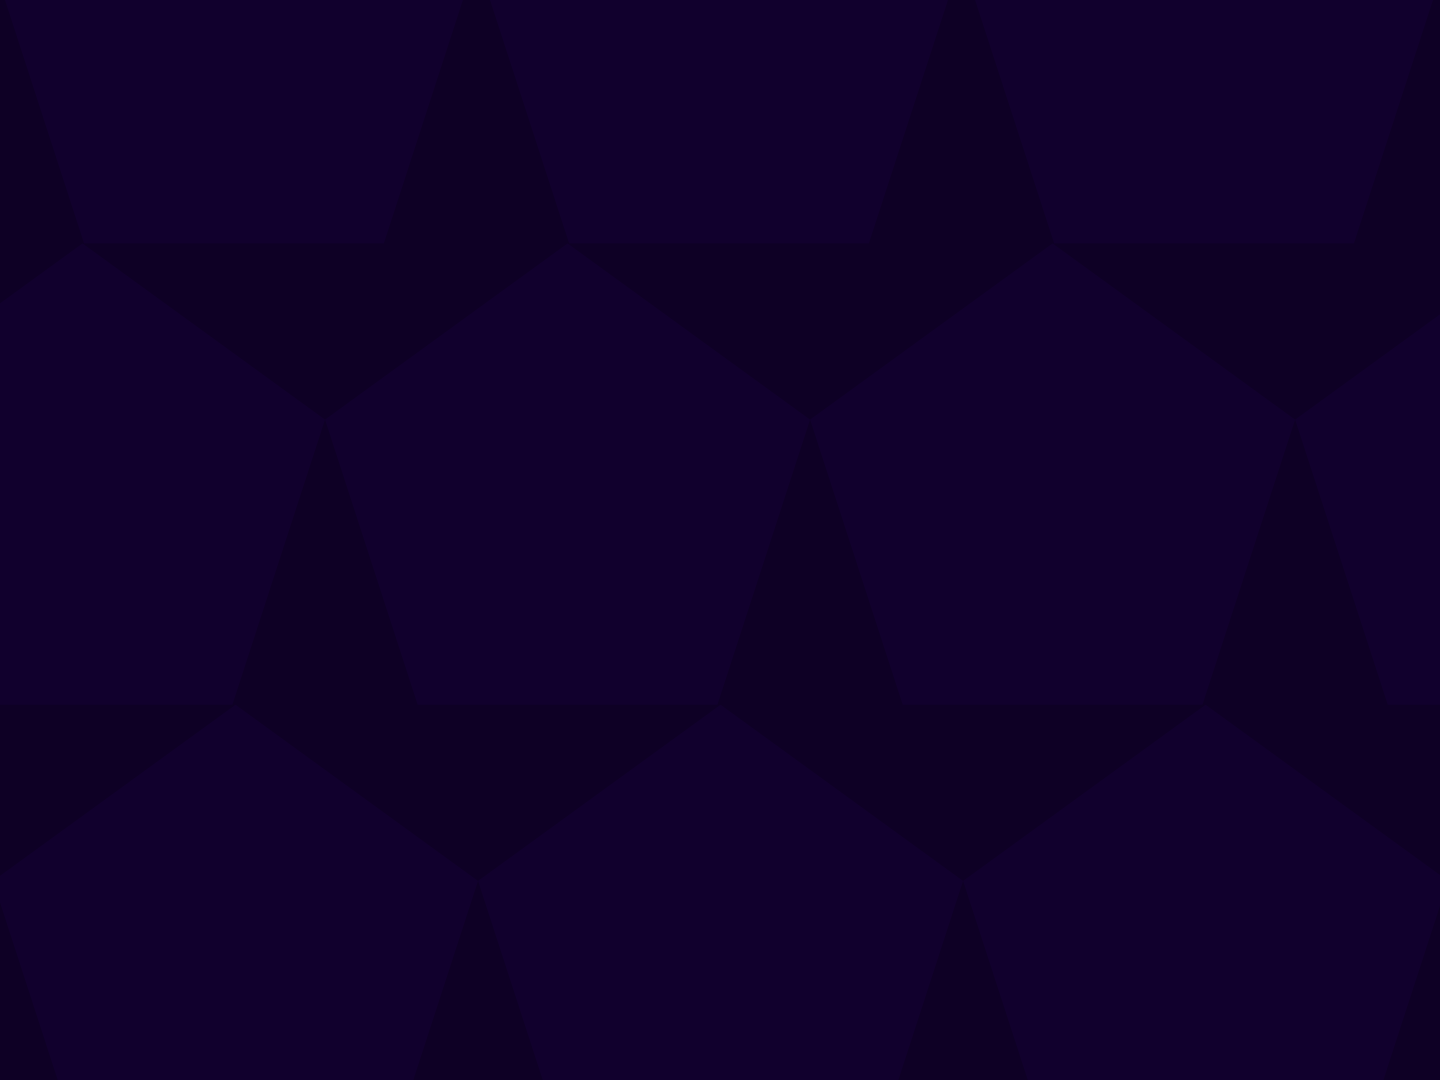
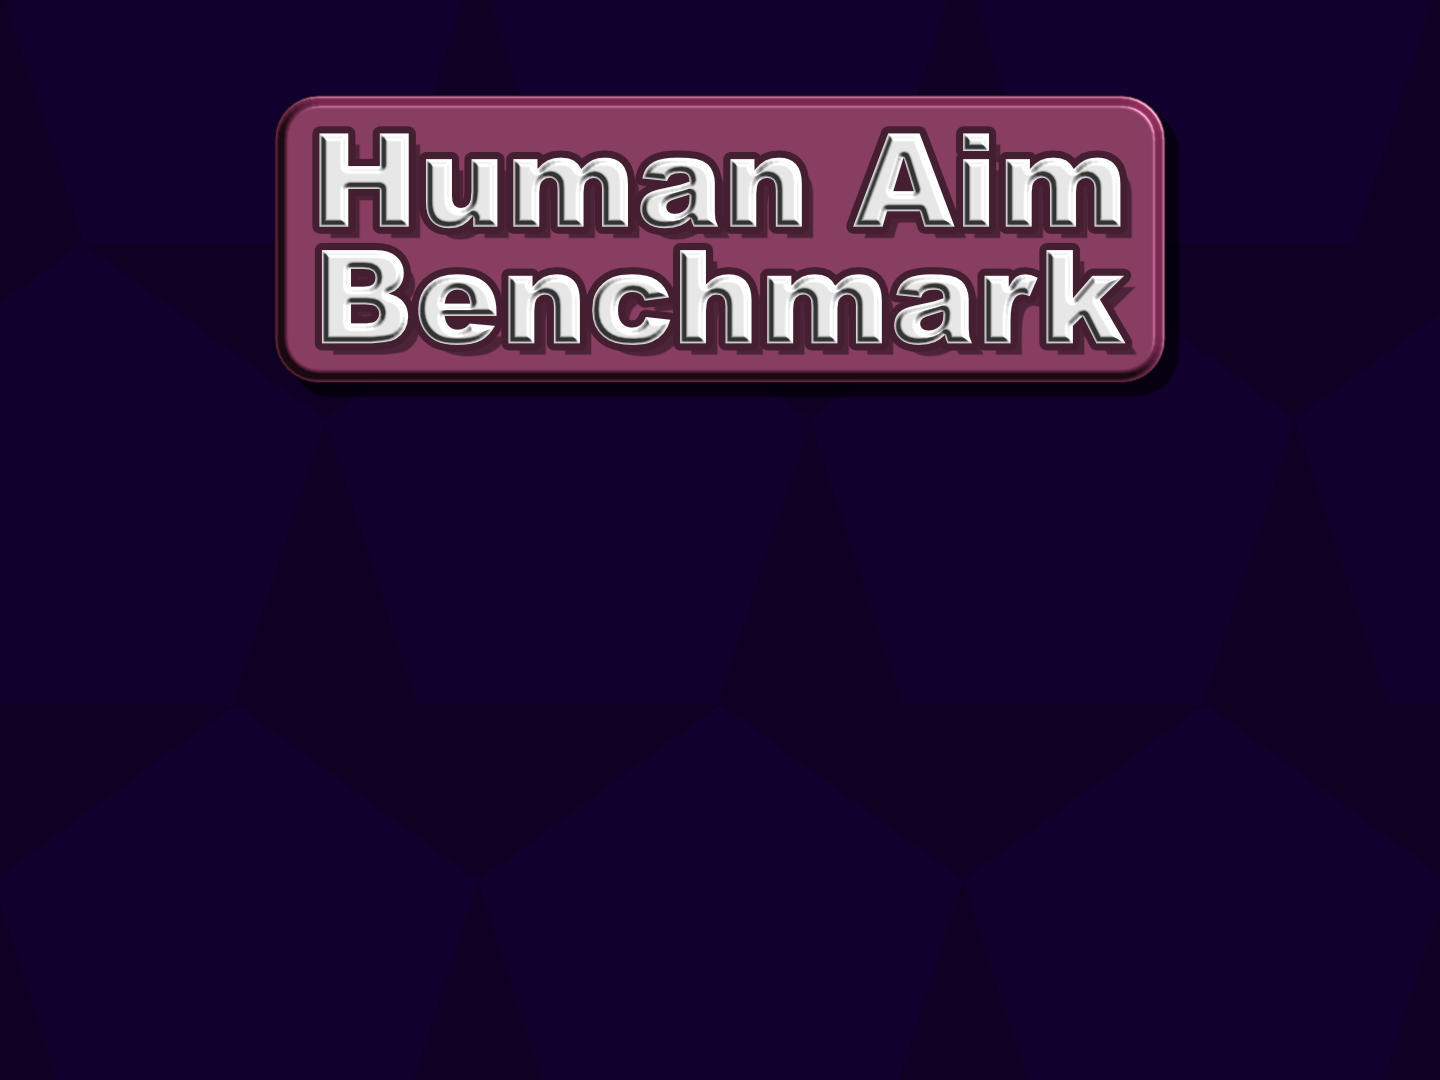
Updated design and added an options menu where the resolution can be changed

Changed region(s): [[0.1875, 0.0611, 0.8438, 0.3667]]

diff --git a/global_variables.py b/global_variables.py
@@ -15,48 +15,63 @@ def load_assets():
         return
     
     original_images = {
-        # ------------------------ MENU ASSETS ------------------------
-        "main_menu_bg": pygame.image.load("/Users/evaldsberzins/pygame/human_benchmark/graphics/main_bg.png"),
-        "level_select_background": pygame.image.load("/Users/evaldsberzins/pygame/human_benchmark/graphics/level_select_background.png"),
-        "circle_numbers_timed_bg": pygame.image.load("/Users/evaldsberzins/pygame/human_benchmark/graphics/circle_numbers_timed_bg.png"),
-        "circles_in_time_bg": pygame.image.load("/Users/evaldsberzins/pygame/human_benchmark/graphics/circles_int_time_bg.png"),
-        "background_dimmer": pygame.image.load("/Users/evaldsberzins/pygame/human_benchmark/graphics/background_dimmer.png"),
-        "playing_area": pygame.image.load("/Users/evaldsberzins/pygame/human_benchmark/graphics/playing_area.png"),
-        "n_circles_timed": pygame.image.load("/Users/evaldsberzins/pygame/human_benchmark/graphics/n_circles_timed.png"),
-        "circles_in_time_desc": pygame.image.load("/Users/evaldsberzins/pygame/human_benchmark/graphics/circles_in_time_desc.png"),
-        "start_button": pygame.image.load("/Users/evaldsberzins/pygame/human_benchmark/graphics/start_level_button.png"),
-        "arrow_right": pygame.image.load("/Users/evaldsberzins/pygame/human_benchmark/graphics/arrow_right.png"),
-        "arrow_left": pygame.image.load("/Users/evaldsberzins/pygame/human_benchmark/graphics/arrow_left.png"),
+        # ------------------------ HOME SCREEN ASSETS ------------------------
+        "main_menu_bg": pygame.image.load("../human_benchmark/graphics/main_bg.png"),
+        "play_button": pygame.image.load("../human_benchmark/graphics/play_button.png"),
+        "options_button": pygame.image.load("../human_benchmark/graphics/options_button.png"),
+        "exit_button_mm": pygame.image.load("../human_benchmark/graphics/exit_button.png"),
+
+        # ------------------------ MENU SCREEN ASSETS ------------------------
+        "level_select_background": pygame.image.load("../human_benchmark/graphics/level_select_background.png"),
+        "circle_numbers_timed_bg": pygame.image.load("../human_benchmark/graphics/circle_numbers_timed_bg.png"),
+        "circles_in_time_bg": pygame.image.load("../human_benchmark/graphics/circles_int_time_bg.png"),
+        "background_dimmer": pygame.image.load("../human_benchmark/graphics/background_dimmer.png"),
+        "playing_area": pygame.image.load("../human_benchmark/graphics/playing_area.png"),
+        "n_circles_timed": pygame.image.load("../human_benchmark/graphics/n_circles_timed.png"),
+        "circles_in_time_desc": pygame.image.load("../human_benchmark/graphics/circles_in_time_desc.png"),
+        "start_button": pygame.image.load("../human_benchmark/graphics/start_level_button.png"),
+        "arrow_right": pygame.image.load("../human_benchmark/graphics/arrow_right.png"),
+        "arrow_left": pygame.image.load("../human_benchmark/graphics/arrow_left.png"),
+
+        # ------------------------ OPTIONS SCREEN ASSETS ------------------------
+        "options_menu_screen": pygame.image.load("../human_benchmark/graphics/options_menu_screen.png"),
+        "back_button": pygame.image.load("../human_benchmark/graphics/back_button.png"),
+        "1440res":pygame.image.load("../human_benchmark/graphics/1440res.png"),
+        "1224res":pygame.image.load("../human_benchmark/graphics/1224res.png"),
+        "1024res":pygame.image.load("../human_benchmark/graphics/1024res.png"),
+        "1440res_selected": pygame.image.load("../human_benchmark/graphics/1440res_selected.png"),
+        "1224res_selected": pygame.image.load("../human_benchmark/graphics/1224res_selected.png"),
+        "1024res_selected": pygame.image.load("../human_benchmark/graphics/1024res_selected.png"),
         
          # ------------------------ CIRCLE OPTION ASSETS ------------------------      
-        "5_circles_unselected": pygame.image.load("/Users/evaldsberzins/pygame/human_benchmark/graphics/5_circles_unselected.png"),
-        "10_circles_unselected": pygame.image.load("/Users/evaldsberzins/pygame/human_benchmark/graphics/10_circles_unselected.png"),
-        "20_circles_unselected": pygame.image.load("/Users/evaldsberzins/pygame/human_benchmark/graphics/20_circles_unselected.png"),
-        "1x_size_unselected": pygame.image.load("/Users/evaldsberzins/pygame/human_benchmark/graphics/1x_size_unselected.png"),
-        "2x_size_unselected": pygame.image.load("/Users/evaldsberzins/pygame/human_benchmark/graphics/2x_size_unselected.png"),
-        "3x_size_unselected": pygame.image.load("/Users/evaldsberzins/pygame/human_benchmark/graphics/3x_size_unselected.png"),
-        "5_circles_selected": pygame.image.load("/Users/evaldsberzins/pygame/human_benchmark/graphics/5_circles_selected.png"),
-        "10_circles_selected": pygame.image.load("/Users/evaldsberzins/pygame/human_benchmark/graphics/10_circles_selected.png"),
-        "20_circles_selected": pygame.image.load("/Users/evaldsberzins/pygame/human_benchmark/graphics/20_circles_selected.png"),
-        "1x_size_selected": pygame.image.load("/Users/evaldsberzins/pygame/human_benchmark/graphics/1x_size_selected.png"),
-        "2x_size_selected": pygame.image.load("/Users/evaldsberzins/pygame/human_benchmark/graphics/2x_size_selected.png"),
-        "3x_size_selected": pygame.image.load("/Users/evaldsberzins/pygame/human_benchmark/graphics/3x_size_selected.png"),
-        "5s_limit_unselected": pygame.image.load("/Users/evaldsberzins/pygame/human_benchmark/graphics/5s_limit_unselected.png"),   
-        "10s_limit_unselected": pygame.image.load("/Users/evaldsberzins/pygame/human_benchmark/graphics/10s_limit_unselected.png"),
-        "20s_limit_unselected": pygame.image.load("/Users/evaldsberzins/pygame/human_benchmark/graphics/20s_limit_unselected.png"),
-        "5s_limit_selected": pygame.image.load("/Users/evaldsberzins/pygame/human_benchmark/graphics/5s_limit_selected.png"),
-        "10s_limit_selected": pygame.image.load("/Users/evaldsberzins/pygame/human_benchmark/graphics/10s_limit_selected.png"),
-        "20s_limit_selected": pygame.image.load("/Users/evaldsberzins/pygame/human_benchmark/graphics/20s_limit_selected.png"),
+        "5_circles_unselected": pygame.image.load("../human_benchmark/graphics/5_circles_unselected.png"),
+        "10_circles_unselected": pygame.image.load("../human_benchmark/graphics/10_circles_unselected.png"),
+        "20_circles_unselected": pygame.image.load("../human_benchmark/graphics/20_circles_unselected.png"),
+        "1x_size_unselected": pygame.image.load("../human_benchmark/graphics/1x_size_unselected.png"),
+        "2x_size_unselected": pygame.image.load("../human_benchmark/graphics/2x_size_unselected.png"),
+        "3x_size_unselected": pygame.image.load("../human_benchmark/graphics/3x_size_unselected.png"),
+        "5_circles_selected": pygame.image.load("../human_benchmark/graphics/5_circles_selected.png"),
+        "10_circles_selected": pygame.image.load("../human_benchmark/graphics/10_circles_selected.png"),
+        "20_circles_selected": pygame.image.load("../human_benchmark/graphics/20_circles_selected.png"),
+        "1x_size_selected": pygame.image.load("../human_benchmark/graphics/1x_size_selected.png"),
+        "2x_size_selected": pygame.image.load("../human_benchmark/graphics/2x_size_selected.png"),
+        "3x_size_selected": pygame.image.load("../human_benchmark/graphics/3x_size_selected.png"),
+        "5s_limit_unselected": pygame.image.load("../human_benchmark/graphics/5s_limit_unselected.png"),   
+        "10s_limit_unselected": pygame.image.load("../human_benchmark/graphics/10s_limit_unselected.png"),
+        "20s_limit_unselected": pygame.image.load("../human_benchmark/graphics/20s_limit_unselected.png"),
+        "5s_limit_selected": pygame.image.load("../human_benchmark/graphics/5s_limit_selected.png"),
+        "10s_limit_selected": pygame.image.load("../human_benchmark/graphics/10s_limit_selected.png"),
+        "20s_limit_selected": pygame.image.load("../human_benchmark/graphics/20s_limit_selected.png"),
 
         # ------------------------ LEVEL ASSETS ------------------------      
-        "circle_1x": pygame.image.load("/Users/evaldsberzins/pygame/human_benchmark/graphics/circle_1x.png"),
-        "circle_2x": pygame.image.load("/Users/evaldsberzins/pygame/human_benchmark/graphics/circle_2x.png"),
-        "circle_3x": pygame.image.load("/Users/evaldsberzins/pygame/human_benchmark/graphics/circle_3x.png"),
-        "3": pygame.image.load("/Users/evaldsberzins/pygame/human_benchmark/graphics/3.png"),
-        "2": pygame.image.load("/Users/evaldsberzins/pygame/human_benchmark/graphics/2.png"),
-        "1": pygame.image.load("/Users/evaldsberzins/pygame/human_benchmark/graphics/1.png"),
-        "result_screen": pygame.image.load("/Users/evaldsberzins/pygame/human_benchmark/graphics/result_screen.png"),
-        "exit_button": pygame.image.load("/Users/evaldsberzins/pygame/human_benchmark/graphics/exit-result-button.png"),
+        "circle_1x": pygame.image.load("../human_benchmark/graphics/circle_1x.png"),
+        "circle_2x": pygame.image.load("../human_benchmark/graphics/circle_2x.png"),
+        "circle_3x": pygame.image.load("../human_benchmark/graphics/circle_3x.png"),
+        "3": pygame.image.load("../human_benchmark/graphics/3.png"),
+        "2": pygame.image.load("../human_benchmark/graphics/2.png"),
+        "1": pygame.image.load("../human_benchmark/graphics/1.png"),
+        "result_screen": pygame.image.load("../human_benchmark/graphics/result_screen.png"),
+        "exit_button": pygame.image.load("../human_benchmark/graphics/exit-result-button.png"),
     }
 
 def apply_scaling():
